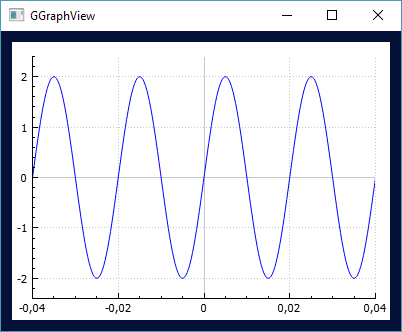
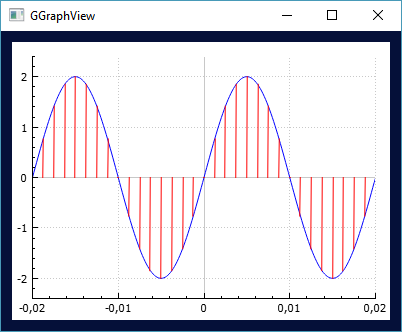
Initial Commit

diff --git a/lib/GSignal.cpp b/lib/GSignal.cpp
@@ -50,8 +50,8 @@ void GSignal::sinus() {
     double F = 50;
     double W = 2*M_PI*F;
     double T = 1/F;
-    double tmin = -2*T;
-    double tmax = 2*T;
+    double tmin = -1*T;
+    double tmax = +1*T;
     int Npow = 8;
     int Nmax = (int)qPow(2.0, (double)Npow) + 1;
     double Te = (tmax - tmin)/(Nmax - 1);
@@ -80,8 +80,8 @@ void GSignal::cosinus() {
     double F = 50;
     double W = 2*M_PI*F;
     double T = 1/F;
-    double tmin = -2*T;
-    double tmax = 2*T;
+    double tmin = -1*T;
+    double tmax = +1*T;
     int Npow = 8;
     int Nmax = (int)qPow(2.0, (double)Npow) + 1;
     double Te = (tmax - tmin)/(Nmax - 1);

diff --git a/lib/GSampling.cpp b/lib/GSampling.cpp
@@ -53,10 +53,6 @@ void GSampling::run() {
         if((i % Ne) == 0) {
             m_xSamp[j] = m_xData[i];
             m_ySamp[j] = m_yData[i];
-            QString m_format = QString("%1 : (%2 ; %3) : (%4 ; %5)")
-                    .arg(j).arg(m_xSamp[j]).arg(m_ySamp[j])
-                    .arg(m_xData[i]).arg(m_yData[i]);
-            GMessageView::Instance()->showData(m_format);
             j++;
         }
     }

diff --git a/Echantillonnage/src/GProcess.cpp b/Echantillonnage/src/GProcess.cpp
@@ -23,7 +23,7 @@ GProcess* GProcess::Instance() {
 }
 //===============================================
 void GProcess::run() {
-    GSignal::Instance()->square();
+    GSignal::Instance()->sinus();
 
     QVector<double> m_x = GSignal::Instance()->getX();
     QVector<double> m_y = GSignal::Instance()->getY();
